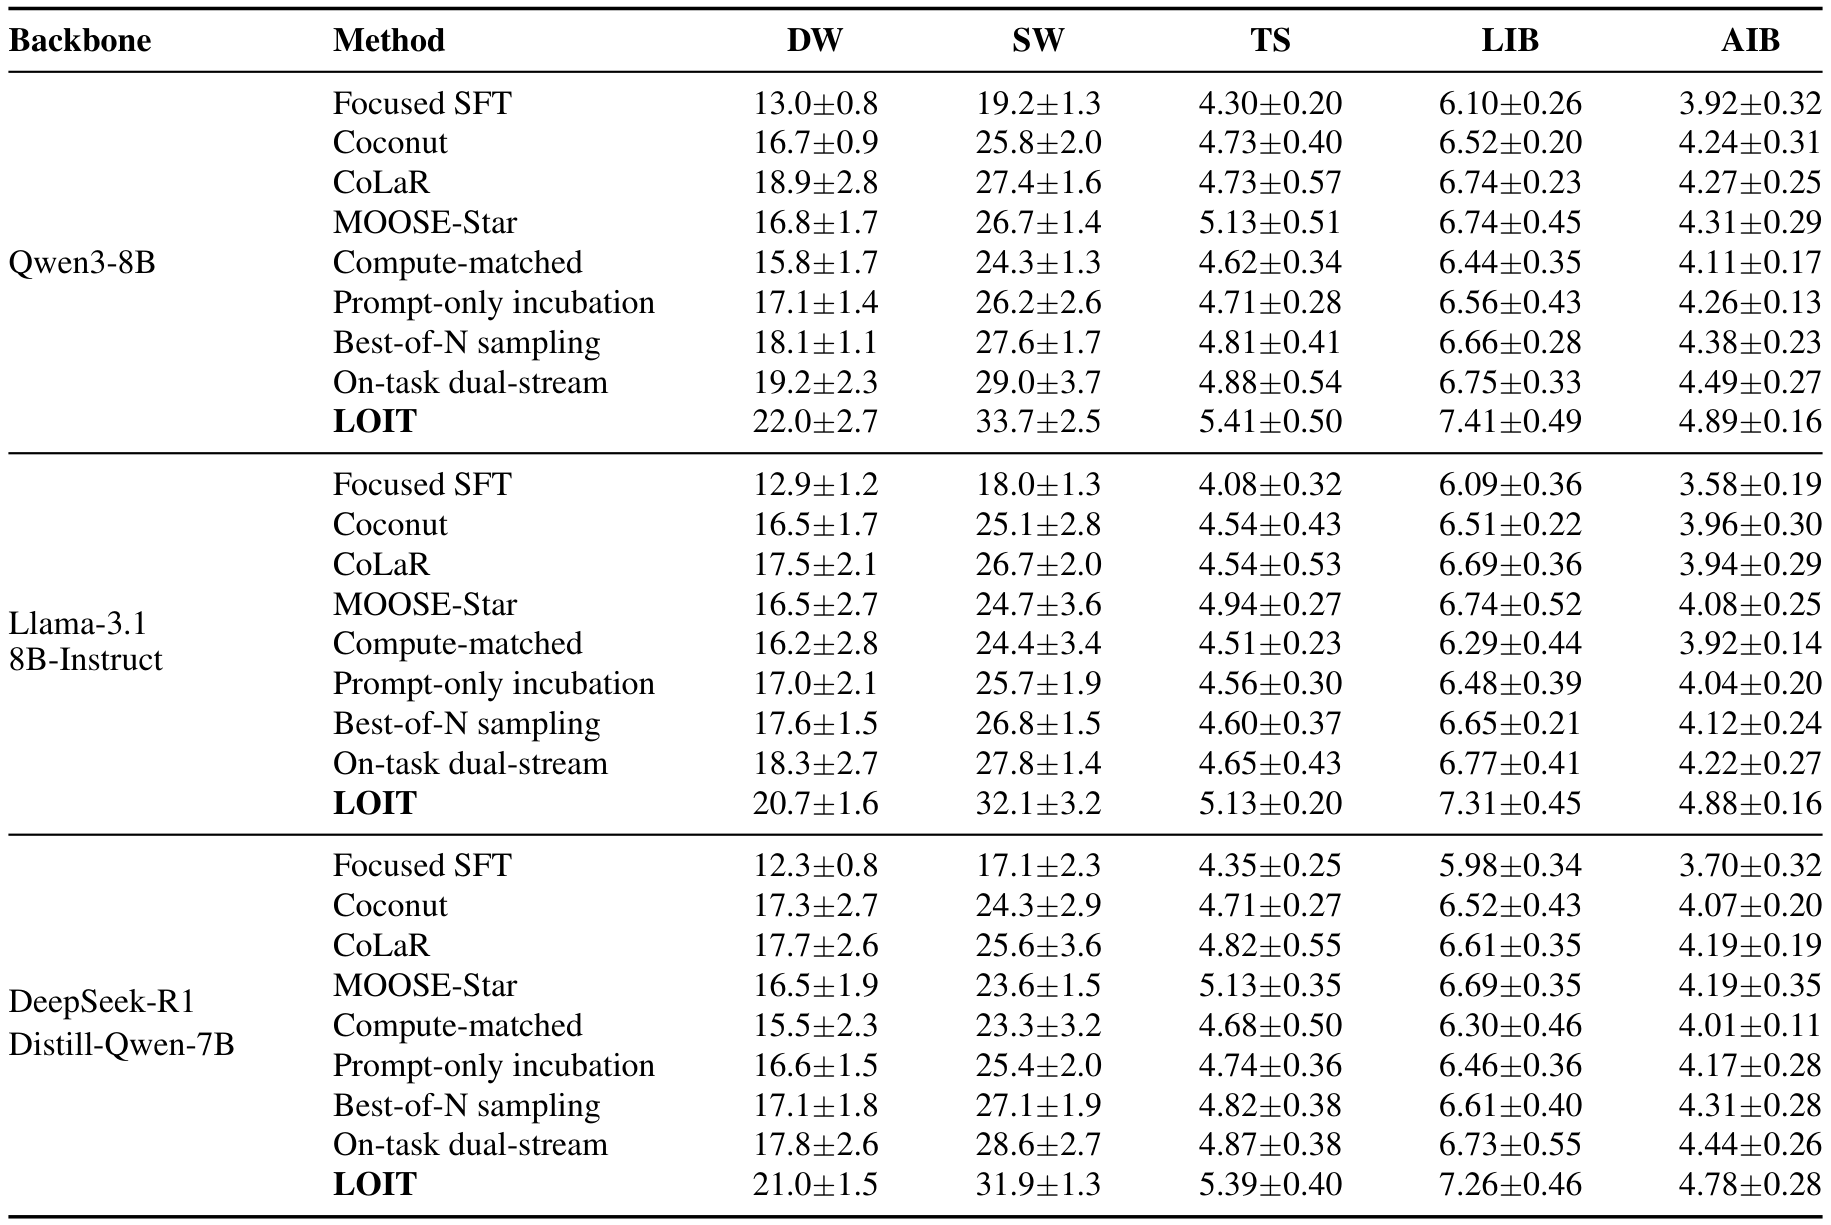
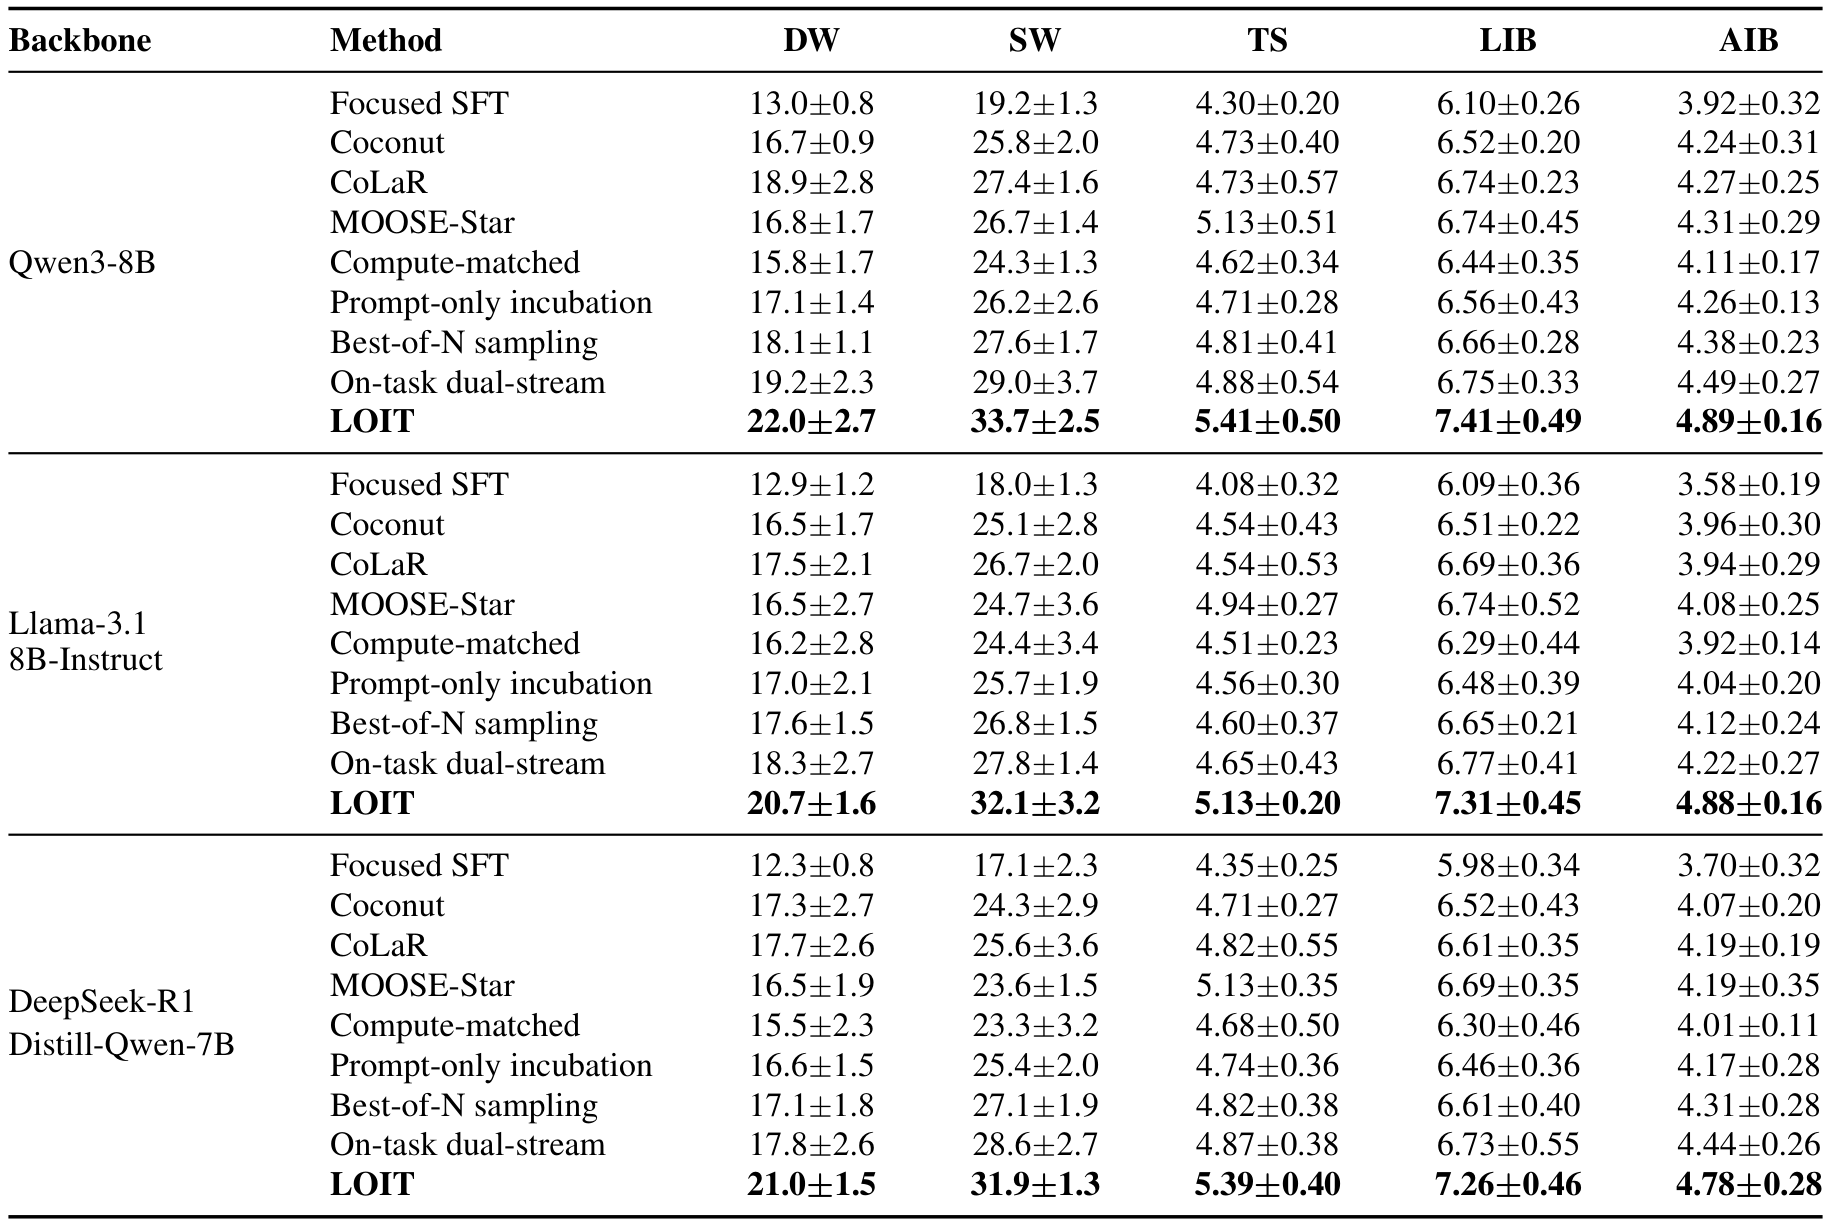
Emphasize method results and number the overview

diff --git a/README.md b/README.md
@@ -32,17 +32,11 @@ controller allocates incubation according to expected scientific gain and cost.
 
 **Figure 1.** Task-focused reasoning and LOIT on DiscoveryWorld’s Plant Nutrients Challenge. In seed 1, growth requires low titanium together with medium barium. The three observations challenge a single-factor explanation. A color-mixing instruction from Dolly 15k provides the off-task input. Memory cross-attention retains the scientific observations, the transition head updates an associative code, and return cross-attention carries this code into a proposal for separate and joint nutrient tests.
 
-**Associative transitions.**
+1. **Associative transitions.** During incubation, a separate Transformer stream processes unrelated activities while attending to residual memory. Learned transitions and stochastic topic changes then evolve persistent associative codes. Memory supplies cross-attention keys and values; off-task states supply queries. Releasing the activity-local cache leaves the code as the persistent state.
 
-During incubation, a separate Transformer stream processes unrelated activities while attending to residual memory. Learned transitions and stochastic topic changes then evolve persistent associative codes. Memory supplies cross-attention keys and values; off-task states supply queries. Releasing the activity-local cache leaves the code as the persistent state.
+2. **Insight Reintegration.** Upon returning, cross-attention reintegrates the final code into focused reasoning, where an evidence gate screens hypotheses and discriminating tests. The highest-scoring admissible proposal enters the history, and the focused cache is rebuilt. An empty admissible set restores the saved history and cache.
 
-**Insight Reintegration.**
-
-Upon returning, cross-attention reintegrates the final code into focused reasoning, where an evidence gate screens hypotheses and discriminating tests. The highest-scoring admissible proposal enters the history, and the focused cache is rebuilt. An empty admissible set restores the saved history and cache.
-
-**Policy optimization and execution.**
-
-A learned controller selects incubation timing, duration, activity category, and memory coupling. Paired scientific gains and computation costs guide controller training. At deployment, focused continuation and incubation actions with predicted utility above a validation-selected margin $`m_v\geq0`$ are admissible. The actor selects its highest-probability admissible action, with ties favoring focused continuation. The utility estimator therefore determines admissibility, while the actor supplies learned action preferences.
+3. **Policy optimization and execution.** A learned controller selects incubation timing, duration, activity category, and memory coupling. Paired scientific gains and computation costs guide controller training. At deployment, focused continuation and incubation actions with predicted utility above a validation-selected margin $`m_v\geq0`$ are admissible. The actor selects its highest-probability admissible action, with ties favoring focused continuation. The utility estimator therefore determines admissibility, while the actor supplies learned action preferences.
 
 ![Algorithm 1](assets/algorithm.png)
 
